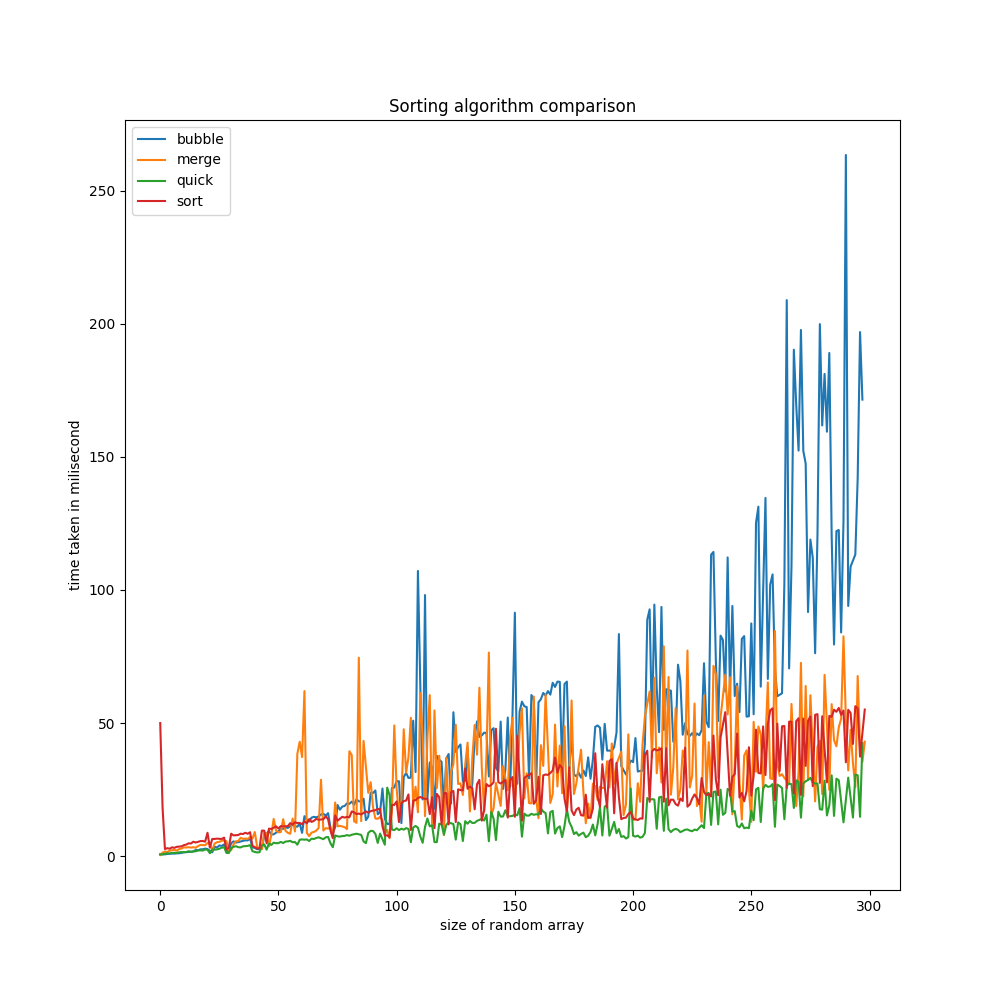
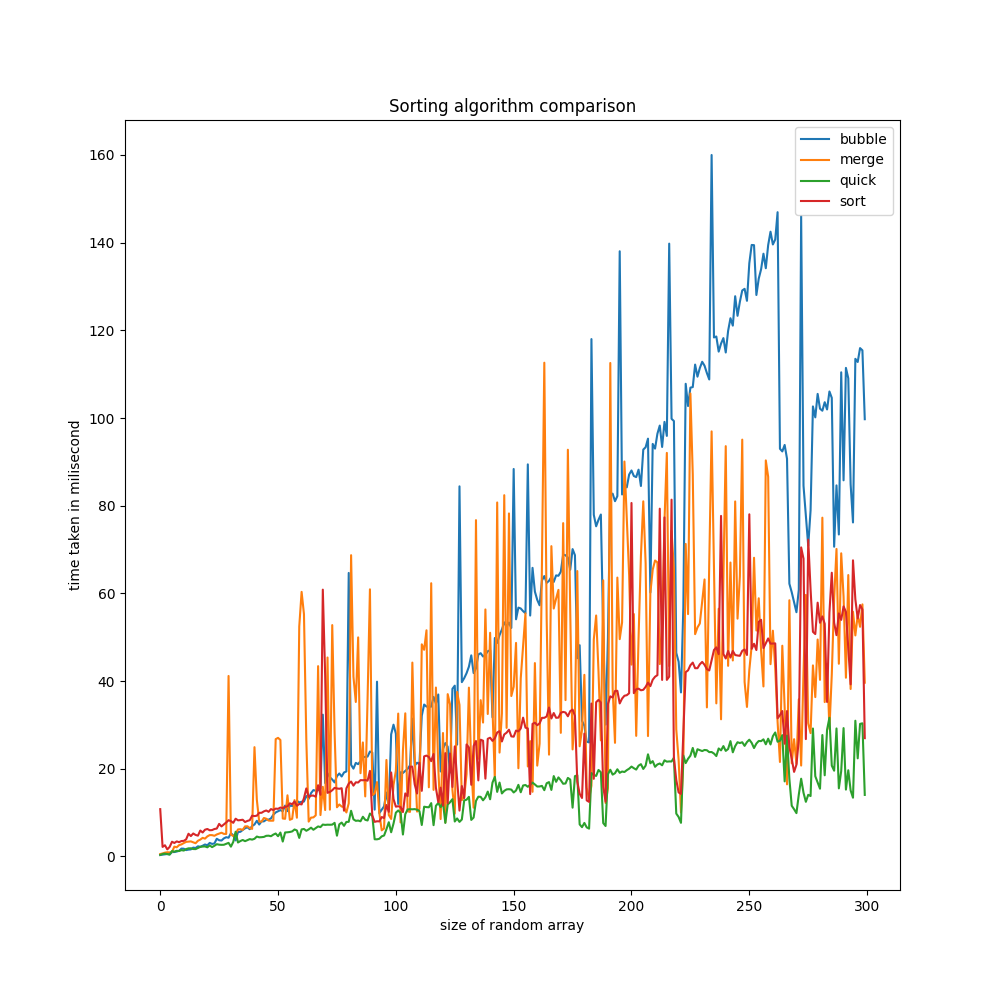
update code to make more dynamic benchmark

diff --git a/visualization/main.py b/visualization/main.py
@@ -31,8 +31,8 @@ def plotting_seperately(df):
     ax4.grid()
     
     
-    fig.savefig("comparison-between-sort.png")
-    plt.show()
+    fig.savefig(f"comparison-between-sort-{len(df)}.png")
+    
 
 def plotting_combined(df):
     plt.figure(figsize=(10,10))    
@@ -44,8 +44,8 @@ def plotting_combined(df):
     plt.plot(df.index, df["quick"] / (1000),label="quick")
     plt.plot(df.index, df["sort"] / (1000),label="sort")
     plt.legend()
-    plt.savefig("combined-comparison-between-sort.png")
-    plt.show()
+    plt.savefig(f"combined-comparison-between-sort-{len(df)}.png")
+    
 
 def fix_outlier(df_series):
     Q1 = df_series.quantile(0.25)
@@ -67,8 +67,8 @@ def plotting_theory(df):
     plt.plot(df.index, df["log_n"] ,label="log_n")
     plt.plot(df.index, df["n_squared"],label="n_squared")
     plt.legend()
-    plt.savefig("theory-comparison-sort.png") 
-    plt.show()
+    plt.savefig(f"theory-comparison-sort-{len(df)}.png") 
+    
 
 
 # Define the updated cal function
@@ -89,13 +89,15 @@ if __name__ == "__main__":
     df["sort"] = fix_outlier(df["sort"])
     df["quick"] = fix_outlier(df["quick"])
 
+    
+
     plotting_seperately(df)
     plotting_combined(df)
 
 
     # Use a list comprehension to apply the updated cal function 300 times
-    resultsLogN = [cal_log_n(i) for i in range(1, 301)]  # Avoid log(0)
-    resultsSquaredN = [cal_squared_n(i) for i in range(1, 301)]  # Avoid log(0)
+    resultsLogN = [cal_log_n(i) for i in range(1, len(df) + 1)]  # Avoid log(0)
+    resultsSquaredN = [cal_squared_n(i) for i in range(1, len(df) + 1)]  # Avoid log(0)
 
     # Create a DataFrame from the results list
     df = pd.DataFrame({'log_n': resultsLogN, "n_squared": resultsSquaredN})

diff --git a/sorting/main.go b/sorting/main.go
@@ -2,7 +2,9 @@ package main
 
 import (
 	"fmt"
+	"os"
 	"sort"
+	"strconv"
 	"time"
 
 	"github.com/peterchu999/sort/sortAlgorithm"
@@ -11,13 +13,13 @@ import (
 
 
 
-func run_test() {
+func run_test(arrLen int) {
 	mergeTimeTracker := []int64{}	
 	bubbleTimeTracker := []int64{}
 	builtInTimeTracker := []int64{}
 	quickTimeTracker := []int64{}
 
-	for i:=1; i < 300; i++ {
+	for i:=1; i < arrLen+1; i++ {
 		testCase := utils.GenerateUniqueRandomNumbers(i, 100)
 		mergeT := utils.TestSorting(sortAlgorithm.MergeSortVoid, testCase)
 		time.Sleep(time.Millisecond * 5) // incase computation degenerate machine and make later case worst
@@ -43,7 +45,20 @@ func run_test() {
 	fmt.Println("Done...")
 }
 
+func getArrLen() int {
+	args := os.Args[1:]
+	if len(args) > 0 {
+		a := args[0]
+		arrLenFromArg, err := strconv.Atoi(a) 
+		if err == nil {
+			return arrLenFromArg
+		} 
+	}
+	return 300
+}
+
 
 func main() {
-	run_test()
+	arrLen := getArrLen()
+	run_test(arrLen)
 }
